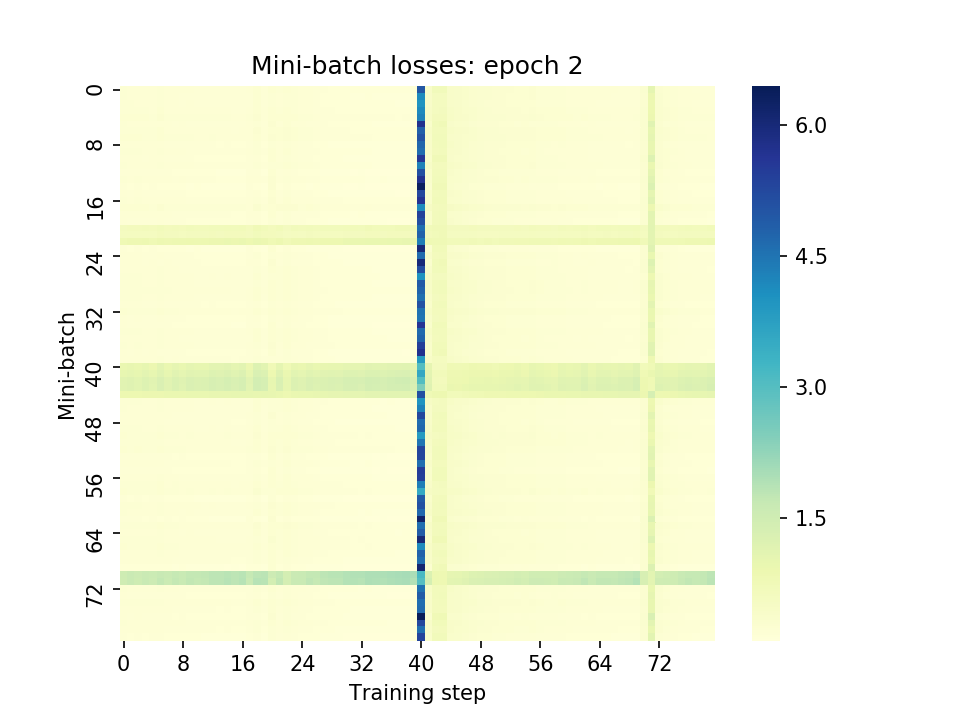
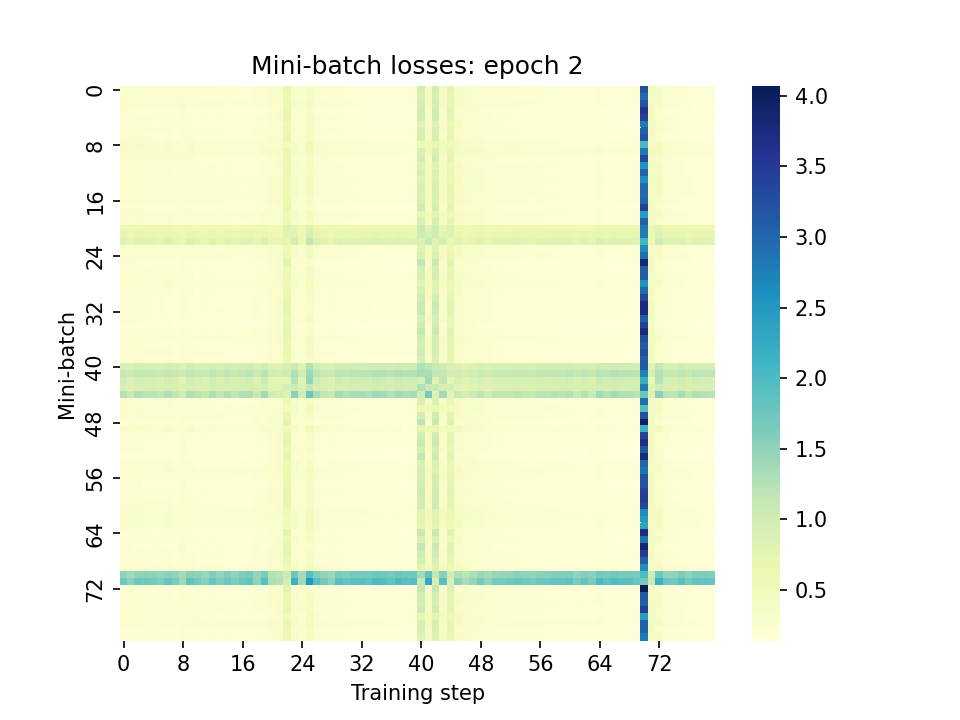
Commit a rerun of experiment - Experiment #1: Demonstration of the anomalous batch detection process

diff --git a/anomalous_batch_detection_with_memory_maps/main.py b/anomalous_batch_detection_with_memory_maps/main.py
@@ -129,7 +129,7 @@ def gaussian3():
 
     print('Experiment 3')
 
-    train_x, train_y, test_x, test_y = _basic_train_test()
+    train_x, train_y, test_x, test_y, train_batch_id = _basic_train_test()
 
     # Poison several scattered batches with different flip probabilities.
     train_y = _flip_labels(train_y, 20 * BATCH_SIZE, 23 * BATCH_SIZE, 0.3)
@@ -151,7 +151,8 @@ def gaussian3():
 
     # Remove bad batches and recalibrate until no more bad batches are found.
     while bad_batch_indices:
-        train_x, train_y = _remove_batches(train_x, train_y, bad_batch_indices)
+        train_x, train_y, train_batch_id, removed_batches = _remove_batches(
+            train_x, train_y, bad_batch_indices, train_batch_id)
 
         print('Recalibrating...')
         # Recalibrate for 1 epoch and look at the last mmap again.
@@ -388,7 +389,7 @@ def gaussian4():
 
 
 def main():
-    gaussian4()
+    gaussian3()
 
 
 if __name__ == '__main__':
